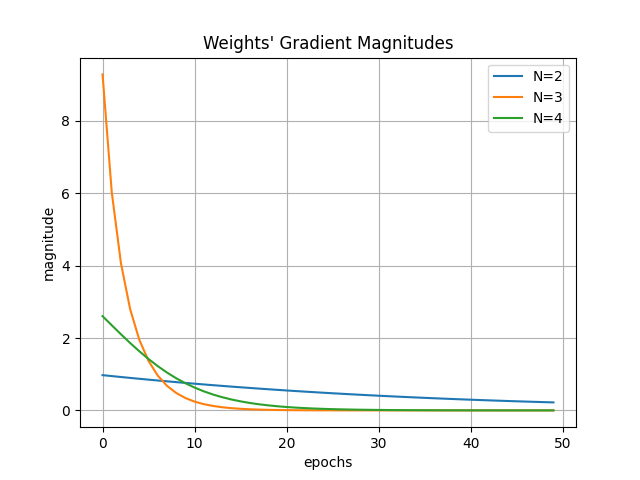
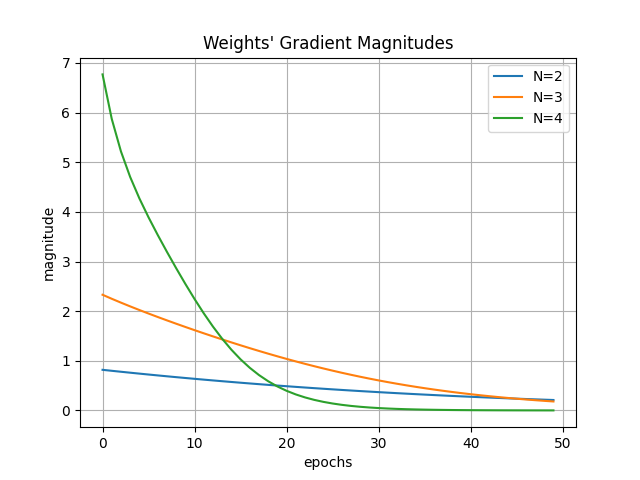
bug fix - num of parameters

diff --git a/EX3/Part 2(4)/statistics/calc_min_and_max_eigenval_of_hessian.py b/EX3/Part 2(4)/statistics/calc_min_and_max_eigenval_of_hessian.py
@@ -1,9 +1,9 @@
 from pyhessian import hessian
 
 def count_num_weights(N, hidden_dim):
-    count = 1       # input_layer adds 1
-    count += (N-1)*hidden_dim
-    count += 1      # output_layer adds 1
+    count = 1*hidden_dim       # input_layer adds 1
+    count += (N-2)*hidden_dim*hidden_dim
+    count += 1*hidden_dim      # output_layer adds 1
 
     return count
 
